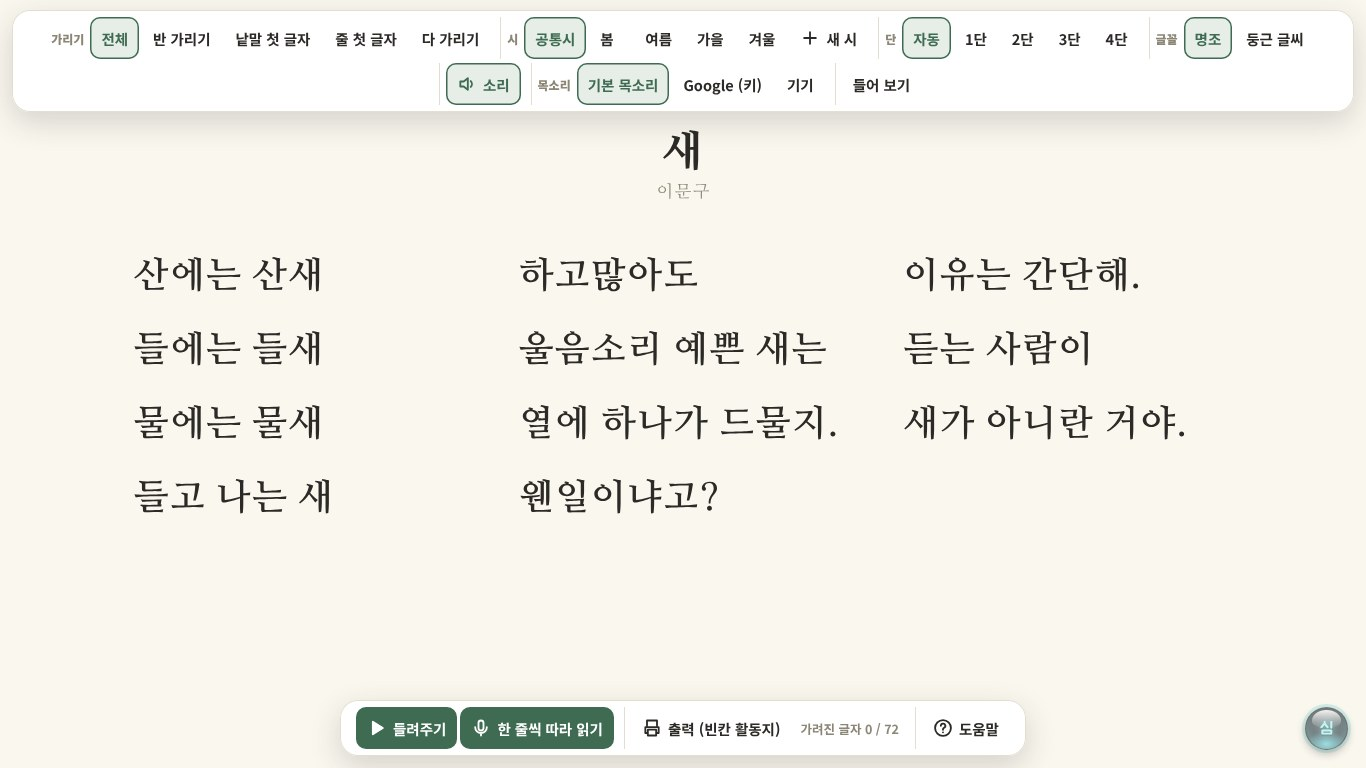
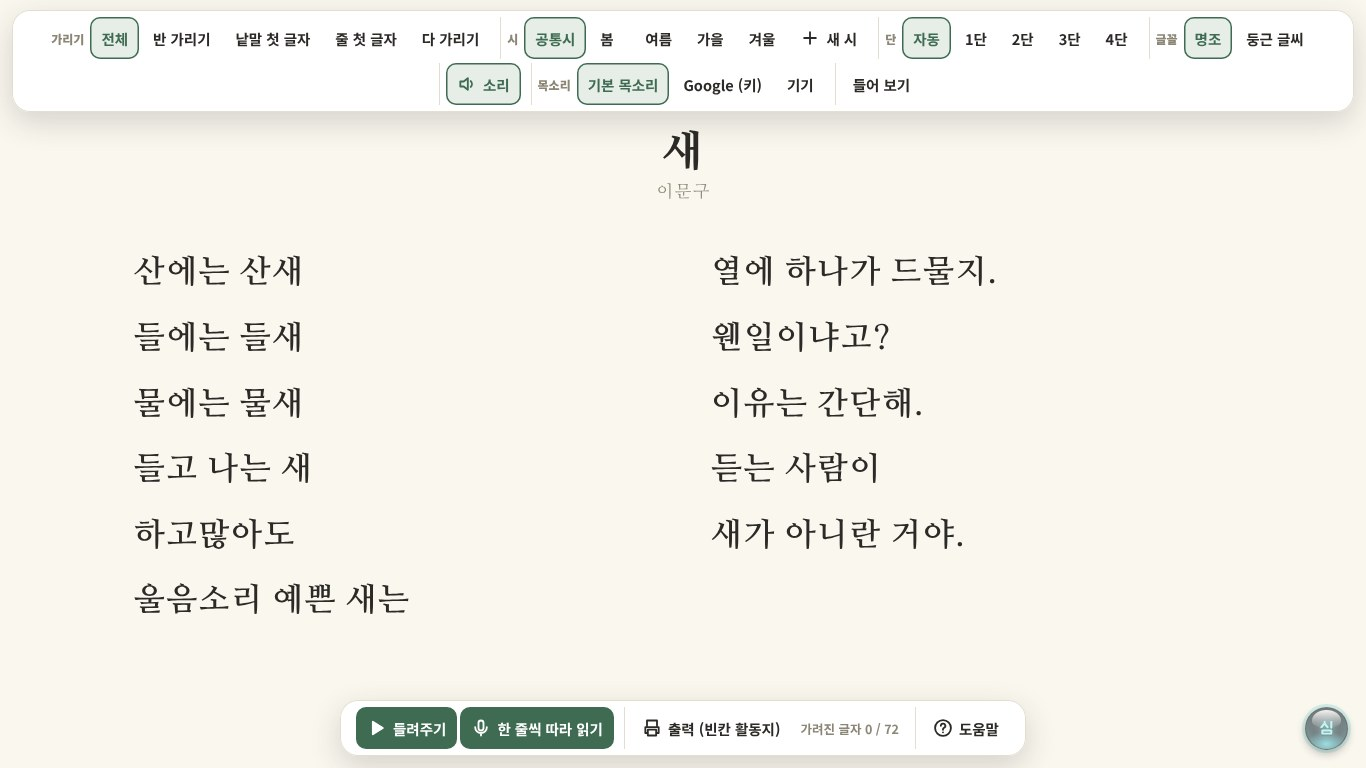
004 앱을 열면 공통시와 관리 메뉴를 바로 보여 줌
Claude-Session: https://claude.ai/code/session_01LkS25tmRyVTiujKpD1SXP2

diff --git a/004/poem-recite_manual.html b/004/poem-recite_manual.html
@@ -8,14 +8,11 @@
 
 <h3 style="margin:28px 0 8px;padding-left:10px;border-left:5px solid #3F6B52;font-size:20px;">시작하기</h3>
 <ol style="margin:0 0 12px;padding-left:24px;">
-  <li style="margin-bottom:6px;">앱을 열면 <b>"시 암송하기"</b>만 크게 보입니다.</li>
-  <li style="margin-bottom:6px;">첫 화면의 <b>시 암송하기</b> 글자를 누르면 공통시가 전체 화면으로 바로 나옵니다.</li>
-  <li style="margin-bottom:6px;">오른쪽 아래 작은 파란 유리알(<b>관리 버튼</b>)을 <b>한 번</b> 누르면 시와 관리 메뉴가 나옵니다. 여기서 시, 가리기 단계, 글꼴, 목소리를 고릅니다.</li>
+  <li style="margin-bottom:6px;">앱을 열면 공통시와 <b>관리 메뉴</b>가 바로 나옵니다. 여기서 시, 가리기 단계, 글꼴, 목소리를 고릅니다.</li>
   <li style="margin-bottom:6px;">관리 버튼을 <b>다시 한 번</b> 누르면 메뉴가 사라지고 전체 화면으로 수업이 시작됩니다. 수업 중에도 언제든 한 번 눌러 메뉴를 열고 닫습니다.</li>
 </ol>
-<img src="https://shim-sung-hyun.github.io/web_app/004/poem-recite01.jpg" alt="첫 화면" style="display:block;width:100%;height:auto;border:1px solid #E3DED0;border-radius:8px;margin:0 0 10px;">
 <img src="https://shim-sung-hyun.github.io/web_app/004/poem-recite02.jpg" alt="관리 메뉴" style="display:block;width:100%;height:auto;border:1px solid #E3DED0;border-radius:8px;">
-<p style="margin:6px 0 16px;font-size:14px;color:#8B8676;">▲ 첫 화면과, 관리 버튼을 누른 모습 — 위쪽: 가리기 단계 · 시 · 단 · 글꼴 · 소리 · 목소리(기본 목소리 · Google · 기기) / 아래쪽: 들려주기 · 한 줄씩 따라 읽기 · 출력 · <b>도움말</b>(메뉴 단추마다 말풍선으로 설명)</p>
+<p style="margin:6px 0 16px;font-size:14px;color:#8B8676;">▲ 앱을 연 모습(관리 메뉴) — 위쪽: 가리기 단계 · 시 · 단 · 글꼴 · 소리 · 목소리(기본 목소리 · Google · 기기) / 아래쪽: 들려주기 · 한 줄씩 따라 읽기 · 출력 · <b>도움말</b>(메뉴 단추마다 말풍선으로 설명)</p>
 
 <h3 style="margin:28px 0 8px;padding-left:10px;border-left:5px solid #3F6B52;font-size:20px;">관리 메뉴</h3>
 <ul style="margin:0 0 12px;padding-left:24px;">

diff --git a/004/poem-recite.html b/004/poem-recite.html
@@ -1059,6 +1059,11 @@ $('tourNext').addEventListener('click',()=>{ TOUR.i++; showTourStep(); });
 $('tourEnd').addEventListener('click',endTour);
 document.addEventListener('keydown',e=>{ if(TOUR.on&&e.key==='Escape') endTour(); });
 window.addEventListener('resize',()=>{ if(TOUR.on) placeTour(); });
+/* 앱을 열면 첫 화면 없이 공통시와 관리 메뉴를 바로 보여 줌. 관리 버튼을 한 번 누르면 메뉴가 닫히고 전체 화면으로 수업 */
+(function openWithMenu(){
+  S.active='common'; store.set('active','common');
+  document.body.classList.remove('cover'); applyFont(); chooseEngine(); rebuildEntries(); setAdmin(true);
+})();
 </script>
 </body>
 </html>
